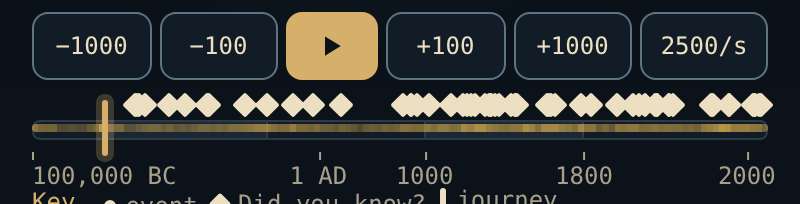
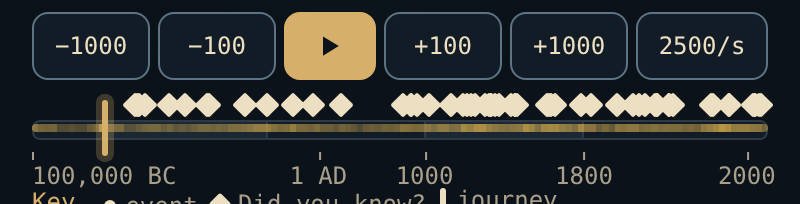
Tidsreglaget: bredare hastighetsknapp i förhistorien, prov i egen kontext och nya skärmbilder (#1101)
- "100 000/s" (fart 100 vid 100 000 f.Kr.) är 65 px i 12 px text och sticker 1 px ut ur en knapp på 64 px: .controls.prehistory .speed får 70 px.
- Webbläsarprovet kör i en egen kontext med den bredaste farten sparad, så att det varken beror på andra prov eller lämnar sparad fart åt dem.
- Skärmbilderna i docs/ux-review/reglagets-texter-1101/ tagna om.

Claude-Session: https://claude.ai/code/session_019xNoaCB1MahHDo2AS5QtEE

diff --git a/css/style.css b/css/style.css
@@ -2153,7 +2153,7 @@ details.used-by summary:hover { color: var(--parchment); }
      rymmer "−10 000" i vanlig textstorlek (ingen text under 12 px, #1309); piltangenterna och PageUp/PageDown finns kvar */
   .controls.prehistory .step:is([data-step="-100"], [data-step="100"]) { display: none; }
   .controls.prehistory .step { max-width: 66px; }
-  .controls.prehistory .speed { flex-basis: 64px; }
+  .controls.prehistory .speed { flex-basis: 70px; } /* "100 000/s" (fart 100 vid 100 000 f.Kr.) är 65 px i 12 px text (#1101) */
   .track { height: 48px; }
   /* Ett krig kan ha många namn på kort avstånd. På mobil visar vi namnet närmast
      reglaget; alla band behåller full beskrivning i titel och tillgänglighetsnamn. */
